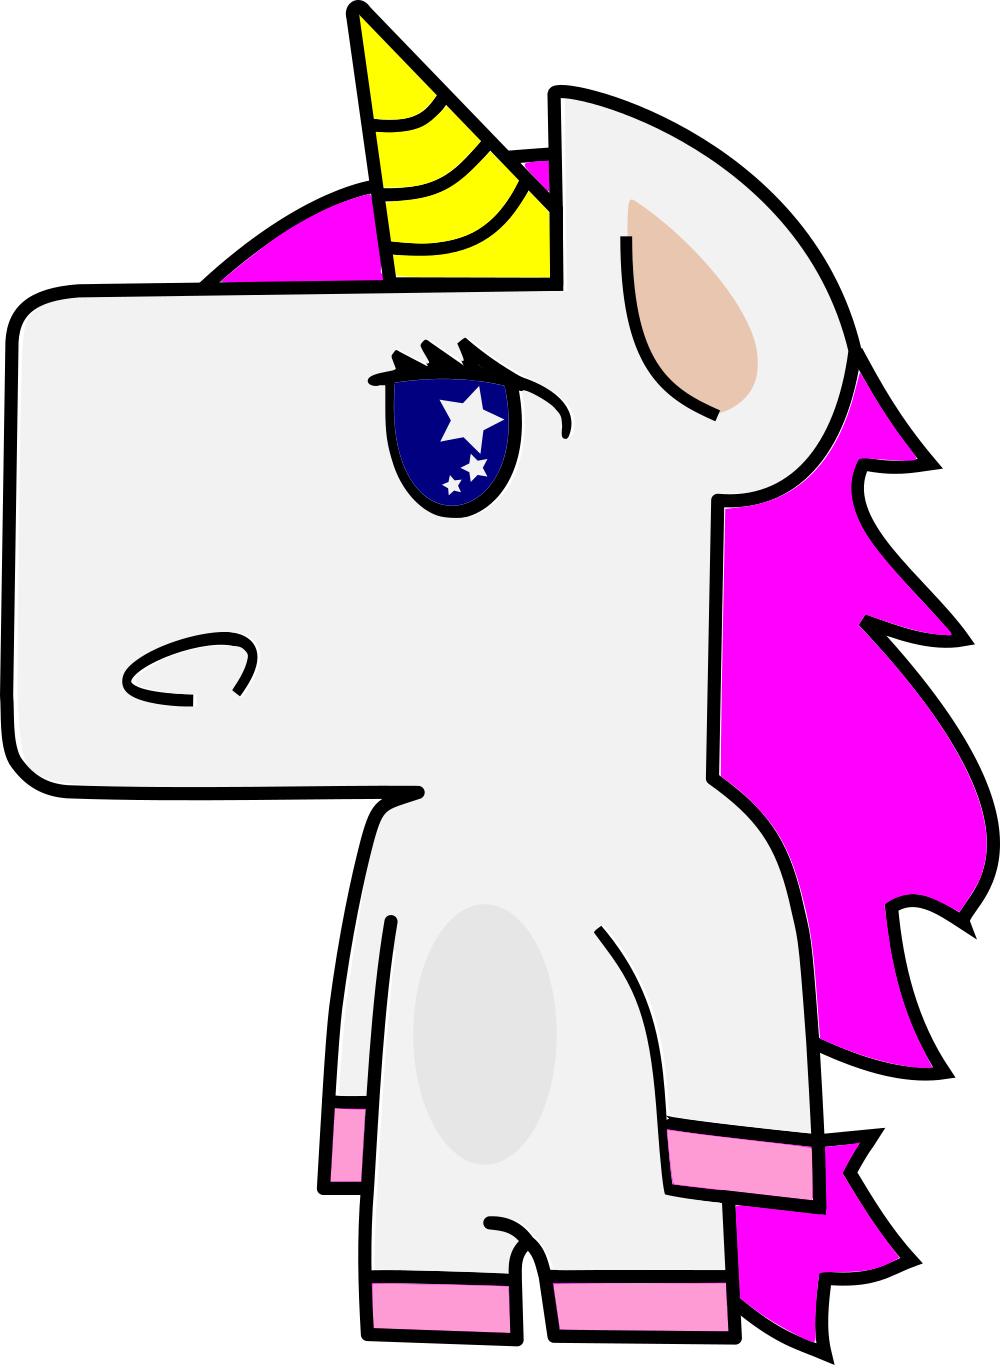
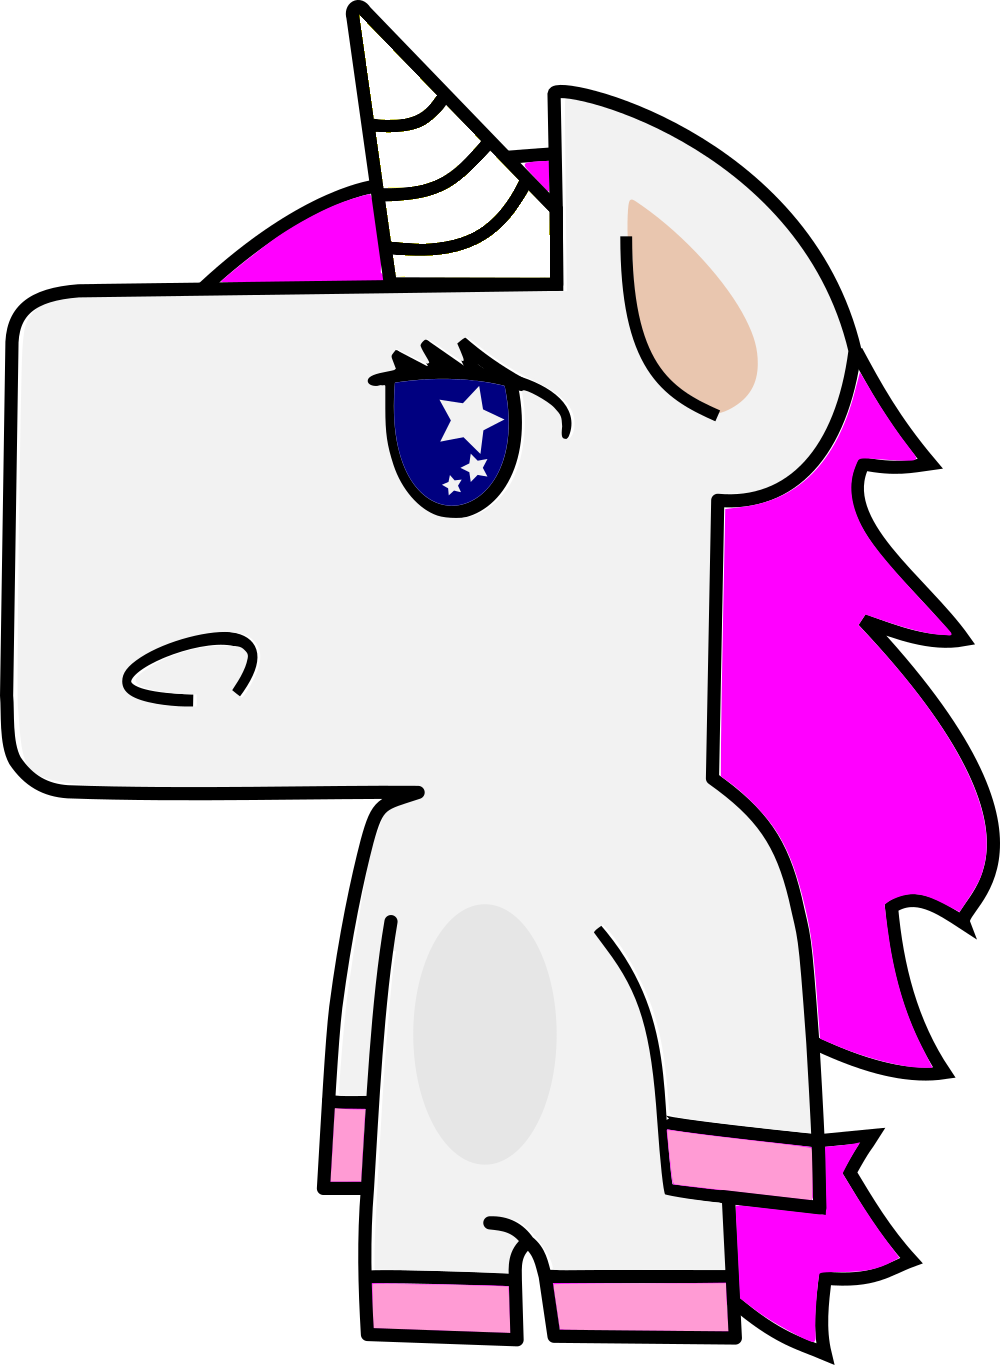
ajout couleur de la corne
c'est trop beau ça change de couleur

Changed region(s): [[0.341, 0.0, 0.558, 0.2154]]

diff --git a/src/game/entities/Player.py b/src/game/entities/Player.py
@@ -11,17 +11,24 @@ class Player(Entity):
         self.level = pygame.Rect(1000, 9170, 4000, 2000)
 
         self.onground = False
+        self.color = (255, 0, 0)
 
+
+        #image pour le rendu
         self.image = {"droite": pygame.image.load('../img/leila.png')}
         self.image["gauche"] = pygame.image.load('../img/leila2.png')
         self.image["droite"] = pygame.transform.scale(self.image["droite"], (100, 150))
         self.image["gauche"] = pygame.transform.scale(self.image["gauche"], (100, 150))
 
+        #rect pour les couleur de la corne
+
+        #rect pour les collisions
         self.hitbox = []
         self.hitbox.append(pygame.Rect(0, 0, 100, 148))
         self.hitbox.append(pygame.Rect(18, 15, 82, 74))
         self.hitbox.append(pygame.Rect(18, 89, 51, 59))
 
+        #rendu pour les hitbox pour les voir
         tete = pygame.Surface((82, 74))
         tete.fill((255, 0, 0, 0.5))
         corp = pygame.Surface((51, 59))
@@ -31,8 +38,10 @@ class Player(Entity):
 
     def render(self):
         if self.vx >= 0:
+            pygame.draw.polygon(self.fenetre, self.color, [[973, 401], [948, 430], [971, 430]])
             self.fenetre.blit(self.image["droite"], (910, 400))
         else:
+            pygame.draw.polygon(self.fenetre, self.color, [[946, 401], [948, 430], [971, 430]])
             self.fenetre.blit(self.image["gauche"], (910, 400))
         ##print("x: ", self.x, "| y: ", self.y)
 
@@ -42,6 +51,7 @@ class Player(Entity):
         lasty = self.y
         lastz = self.z
 
+        #input
         keys = pygame.key.get_pressed()
         if keys[K_a]:
             self.vx = -20
@@ -50,14 +60,54 @@ class Player(Entity):
         if not(keys[K_a] or keys[K_d]):
             self.vx = 0
 
+        if keys[K_w]:
+            self.z += -20
+        if keys[K_s]:
+            self.z += 20
+        if self.z < 0:
+            self.z = 0
+        elif self.z > 1530:
+            self.z = 1530
+        print("z = ", self.z)
+
+
         if keys[K_SPACE]:
             if self.onground:
                 self.vy -= 80
                 self.onground = False
 
+        #calcul de la couleur de la corne
+        r = 0
+        g = 0
+        b = 0
+        if self.z < 255:
+            r = 255
+            g = self.z
+            b = 0
+        elif self.z < 510:
+            r = 510 - self.z
+            g = 255
+            b = 0
+        elif self.z < 765:
+            r = 0
+            g = 255
+            b = self.z - 510
+        elif self.z < 1020:
+            r = 0
+            g = 1020 - self.z
+            b = 255
+        elif self.z < 1275:
+            r = self.z - 1020
+            g = 0
+            b = 255
+        else:
+            r = 255
+            g = 0
+            b = 1530 - self.z
+        self.color = (r, g, b);
+
+        #ajout de la gravité et des vitesses
         self.vy += 9.81
-
-
         self.x += self.vx
         self.y += self.vy
 
